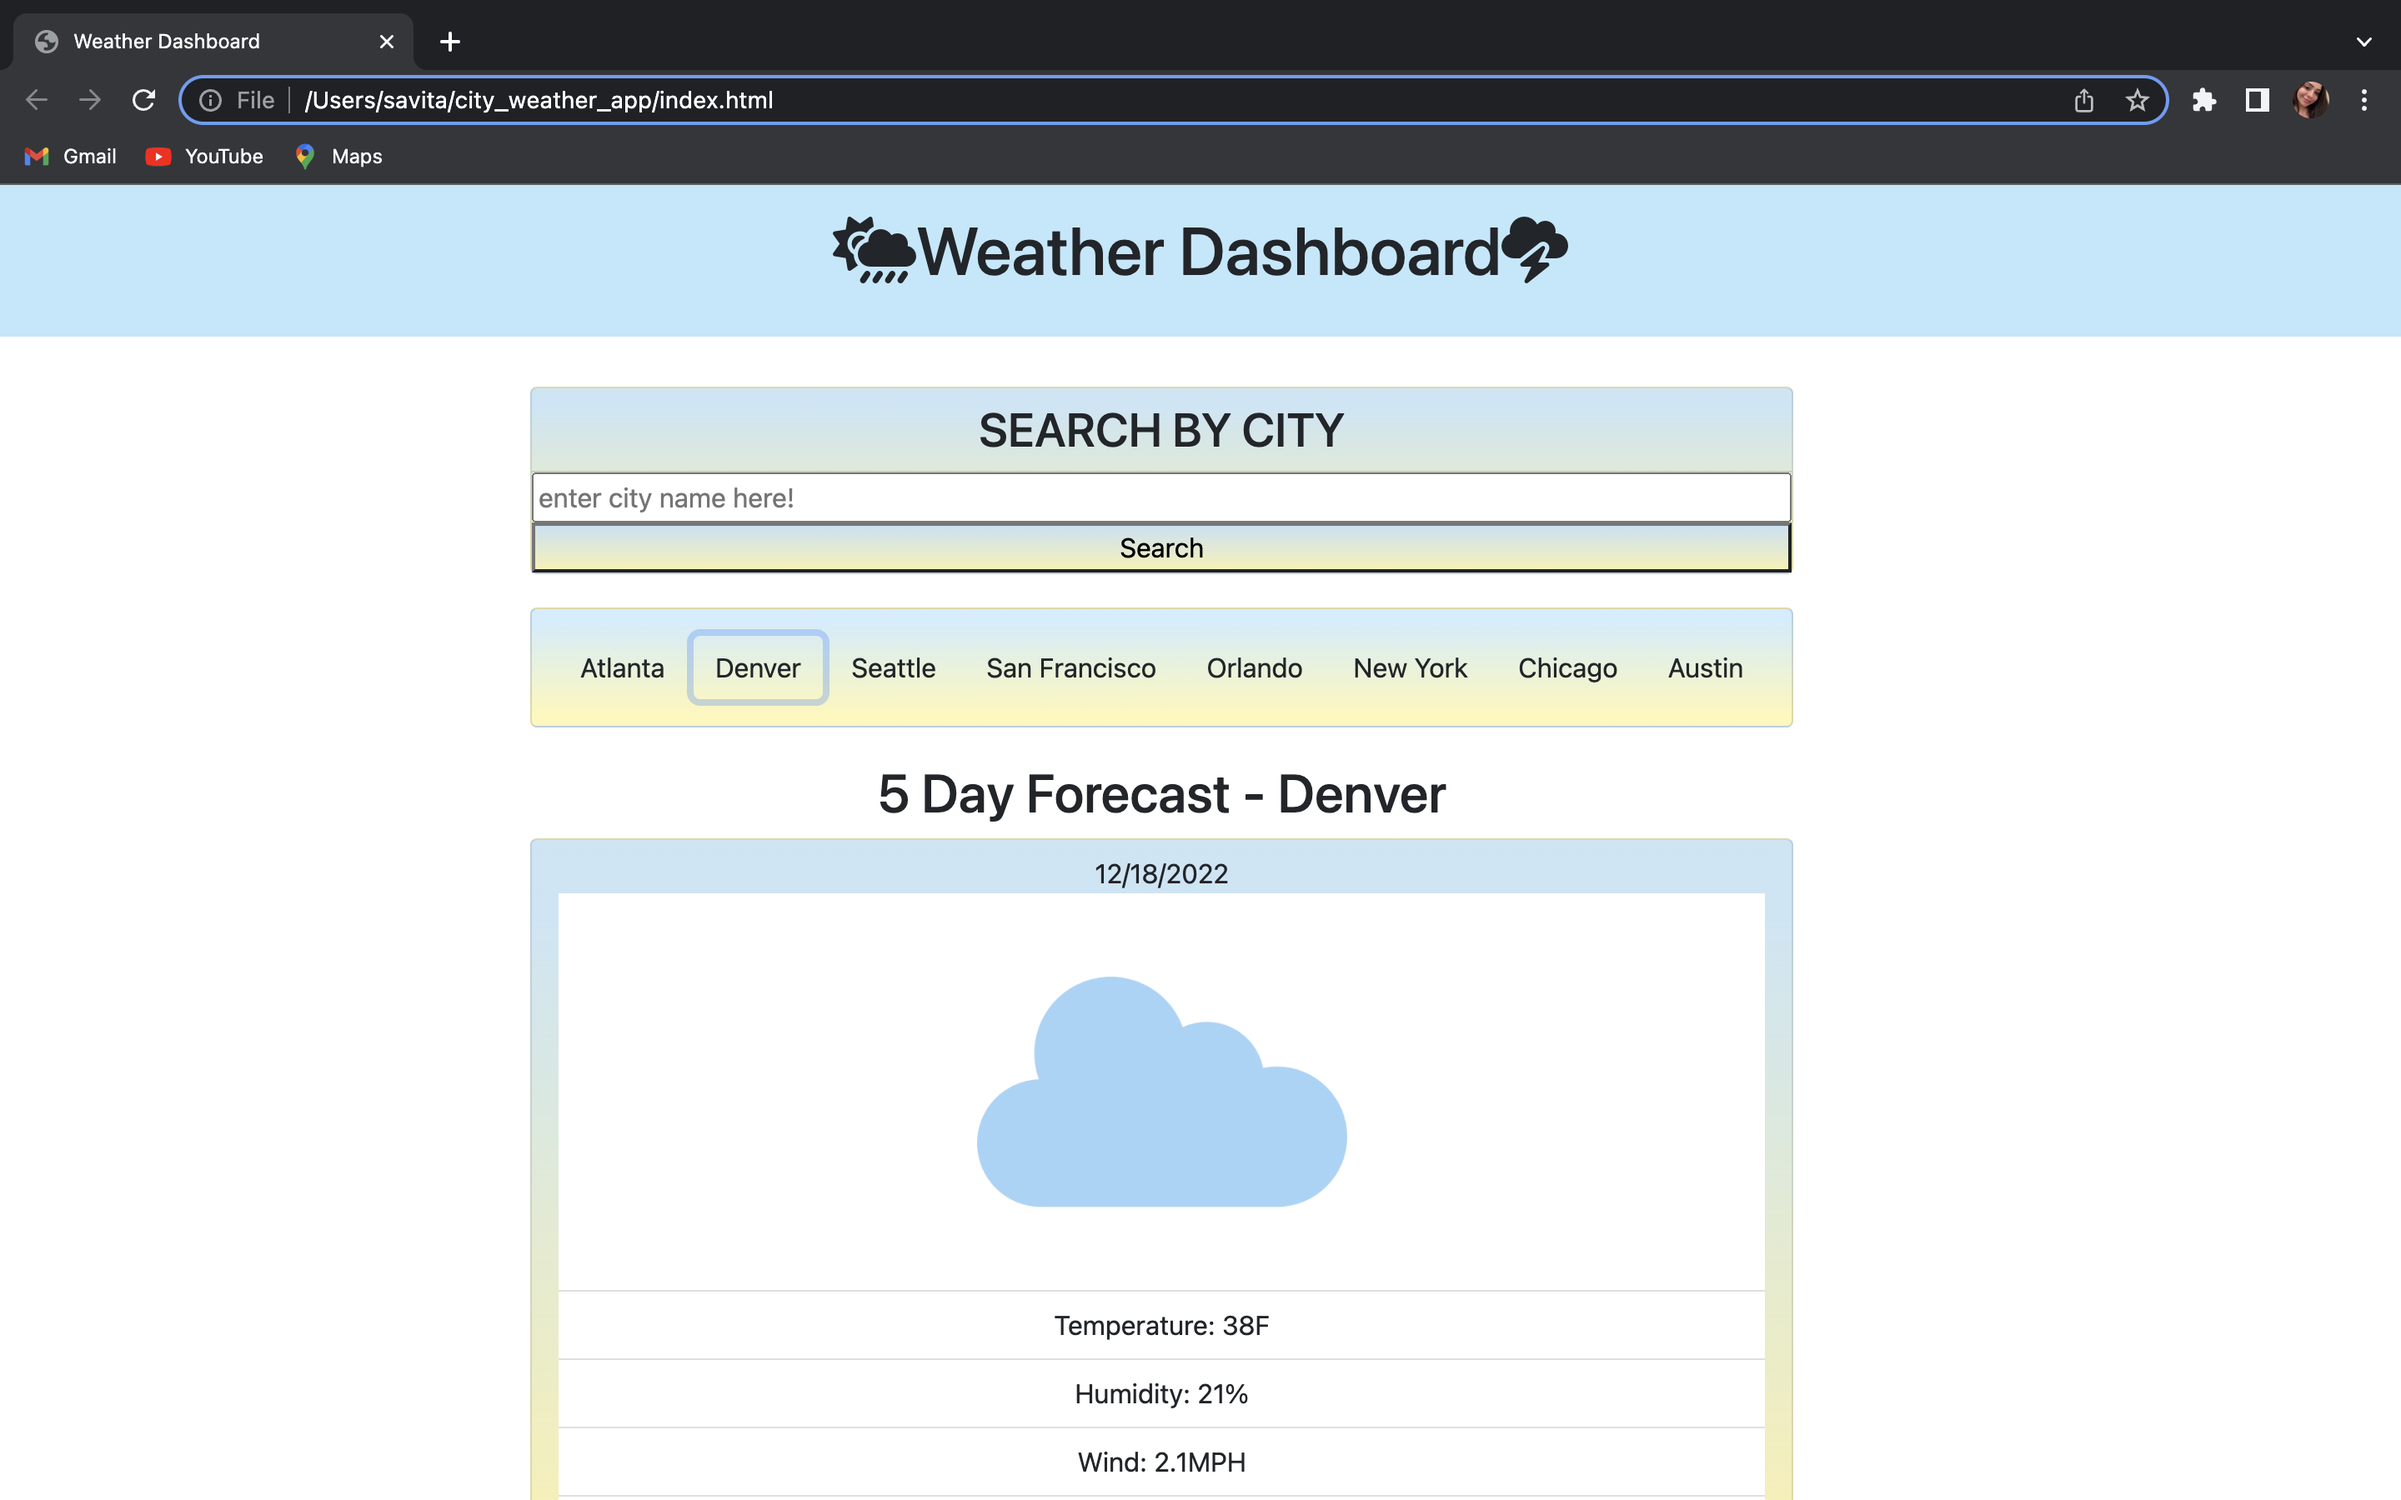
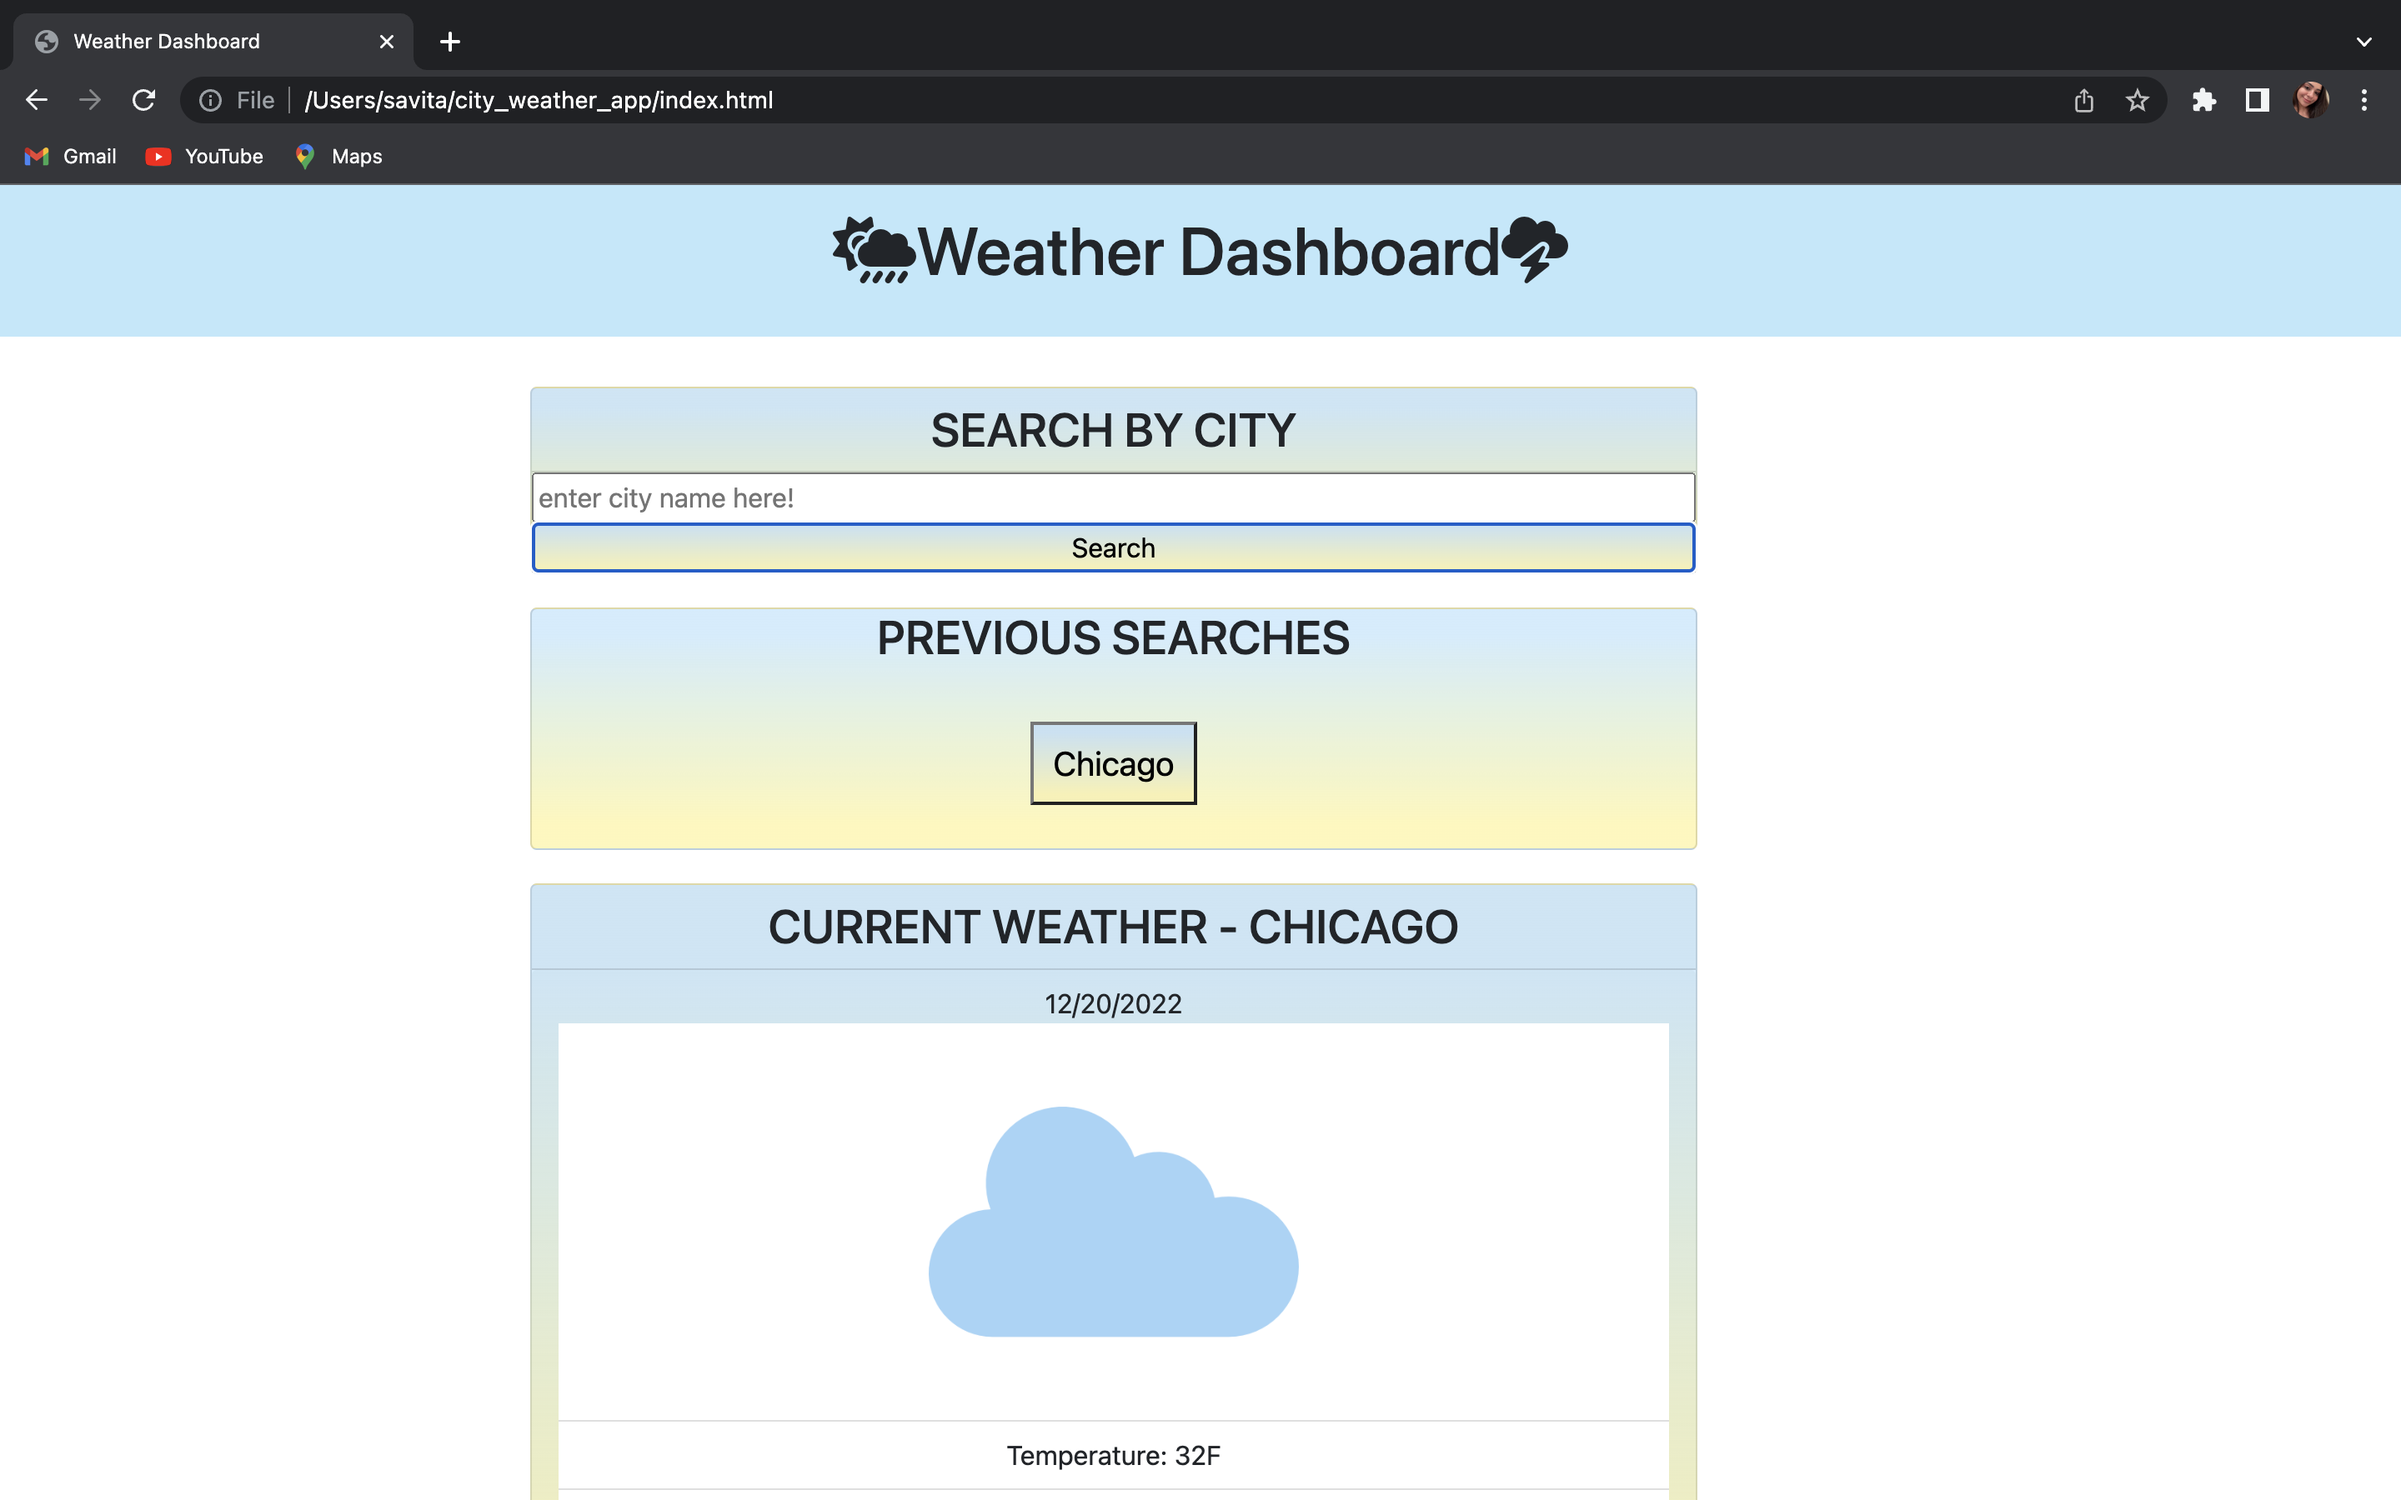
updated README file

Changed region(s): [[0.2188, 0.2489, 0.75, 1.0], [0.375, 0.28, 0.5625, 0.3111]]

diff --git a/script.js b/script.js
@@ -51,6 +51,8 @@ var buttonHandler = function(event) {
 
         forecast.textContent = '';
         citySearch.textContent = '- ' + event.target.innerHTML;
+        cSearch.textContent = '- ' + event.target.innerHTML;
+
     }
 };
 

diff --git a/README.md b/README.md
@@ -20,13 +20,20 @@ N/A
 
 Please refer to the LICENSE in the repo. 
 
+[video](./assets%3Aimages/Weather%20Dashboard.gif)
+
 [screenshot-1](./assets%3Aimages/1.png)
 [screenshot-2](./assets%3Aimages/2.png)
 [screenshot-3](./assets%3Aimages/3.png)
 [screenshot-4](./assets%3Aimages/4.png)
 [screenshot-5](./assets%3Aimages/5.png)
+[screenshot-6](./assets%3Aimages/6.png)
+[screenshot-7](./assets%3Aimages/7.png)
+[screenshot-8](./assets%3Aimages/8.png)
+[screenshot-9](./assets%3Aimages/9.png)
+[screenshot-10](./assets%3Aimages/10.png)
+[screenshot-11](./assets%3Aimages/11.png)
 
-[video](./assets%3Aimages/Weather%20Dashboard.gif)
 
 * The URL of the deployed application - https://savitamanchanda.github.io/city_weather_app/
 
